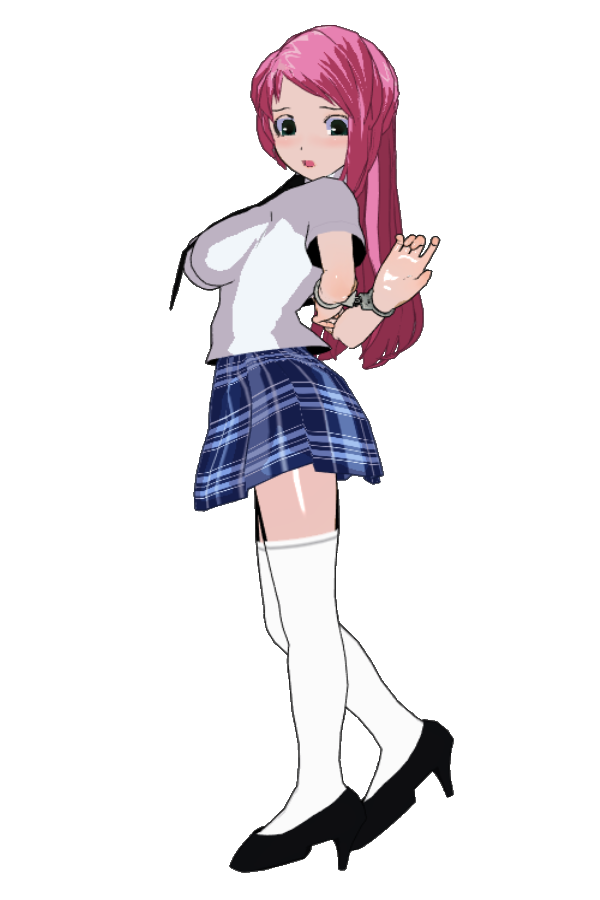
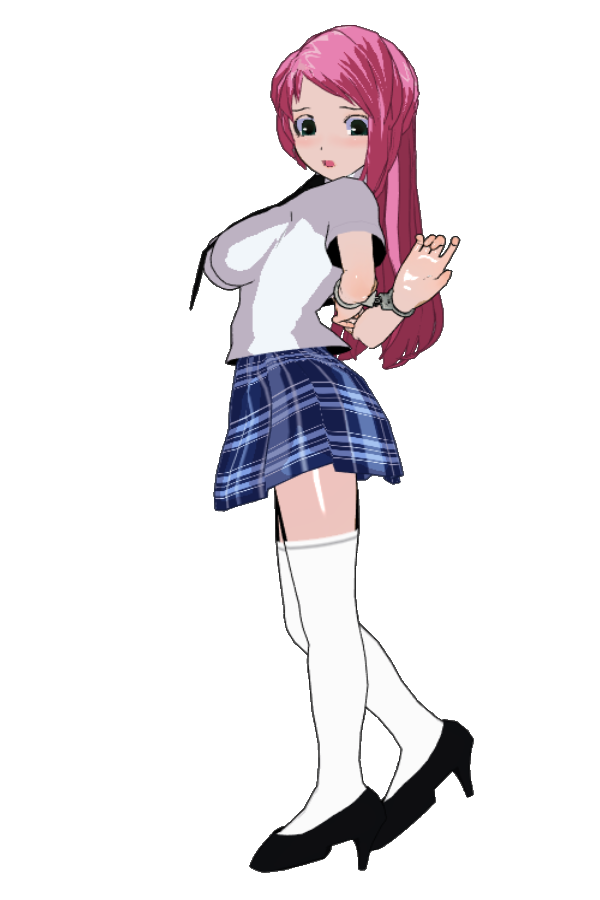
New Quiz System
New Quiz System

Changed region(s): [[0.27, 0.0, 0.81, 0.9956]]

diff --git a/C999_Common/Quiz/Quiz.js b/C999_Common/Quiz/Quiz.js
@@ -8,29 +8,55 @@ var QuizActorLeft = "";
 var QuizActorRight = "";
 var QuizActorLeader = "";
 var QuizImageActorLeft = "";
+var QuizImageActionActorLeft = "";
 var QuizImageActorRight = "";
+var QuizImageActionActorRight = "";
 var QuizImageActorLeader = "";
+var QuizImageActionActorLeader = "";
 var QuizBackupChapter = "";
 var QuizBackupScreen = "";
 var QuizDifficultyText = "";
 var QuizBackgroundImage = "";
-var QuizProgressLeft = -1;
-var QuizProgressRight = -1;
+var QuizProgressLeft = 0;
+var QuizProgressRight = 0;
 var QuizGoal = -1;
 var QuizText = null;
+var QuizQuestion = null;
+var QuizAnswer = null;
+var QuizFirstQuestionTime = 6000;
+var QuizBeforeAnswerTime = 3000;
+var QuizAnswerProgressTime = 3000;
+var QuizOtherQuestionTime = 4000;
+var QuizBetweenQuestionTimer = 0;
+var QuizShuffleDone = false;
+var QuizQuestionText = 0;
+var QuizQuestionAnswer1 = 1; // The first answer is always correct, the answer order will be shuffled
+var QuizQuestionAnswer2 = 2;
+var QuizQuestionAnswer3 = 3;
+var QuizQuestionAnswer4 = 4;
+var QuizAnswerBy = "";
+var QuizAnswerText = "";
 
 // Load the race animations and full sequence
-function QuizLoad(ActorLeft, ImageActorLeft, ActorRight, ImageActorRight, ActorLeader, ImageActorLeader, Difficulty, Goal, BackgroundImage, EndFunction) {
+function QuizLoad(ActorLeft, ImageActorLeft, ActorRight, ImageActorRight, ActorLeader, ImageActorLeader, Difficulty, ProgressTime, Goal, BackgroundImage, QuestionFile, EndFunction) {
 	
 	// Creates a brand new quiz
 	LeaveIcon = "";
-	QuizTimer = 0;
+	QuizTimer = QuizFirstQuestionTime * -1;
 	QuizProgressLeft = 0;
 	QuizProgressRight = 0;
 	QuizGoal = Goal;
 	QuizEnded = false;	
 	QuizPerfect = true;
+	QuizAnswerBy = "";
+	QuizAnswerText = "";
+	QuizBetweenQuestionTimer = 0;
+	
+	// Loads the quiz texts and questions
 	if (QuizText == null) ReadCSV("QuizText", "C999_Common/Quiz/Text_" + CurrentLanguageTag + ".csv");
+	QuizQuestion = null;
+	QuizShuffleDone = false;
+	ReadCSV("QuizQuestion", "C999_Common/Quiz/Questions/" + QuestionFile + "_" + CurrentLanguageTag + ".csv");
 
 	// Loads the parameters
 	QuizActorLeft = ActorLeft;
@@ -42,6 +68,10 @@ function QuizLoad(ActorLeft, ImageActorLeft, ActorRight, ImageActorRight, ActorL
 	QuizDifficultyText = Difficulty;
 	QuizEndFunction = EndFunction;
 	QuizBackgroundImage = BackgroundImage;
+	QuizAnswerProgressTime = ProgressTime;
+	QuizImageActionActorRight = "";
+	QuizImageActionActorLeft = "";
+	QuizImageActionActorLeader = "";
 	
 	// Keep a backup of the current chapter and screen
 	QuizBackupChapter = CurrentChapter;
@@ -51,17 +81,166 @@ function QuizLoad(ActorLeft, ImageActorLeft, ActorRight, ImageActorRight, ActorL
 
 }
 
+// Prepare the quiz answers if we need to
+function QuizPrepareAnswers() {
+	if ((QuizAnswer == null) && (QuizQuestion != null)) {
+		QuizAnswer = [QuizQuestion[QuizProgressLeft + QuizProgressRight][QuizQuestionAnswer1], QuizQuestion[QuizProgressLeft + QuizProgressRight][QuizQuestionAnswer2], QuizQuestion[QuizProgressLeft + QuizProgressRight][QuizQuestionAnswer3], QuizQuestion[QuizProgressLeft + QuizProgressRight][QuizQuestionAnswer4]]; 
+		QuizAnswer = ArrayShuffle(QuizAnswer);
+	}
+}
+
+// Renders the little timer before the quiz and shows the opponent name and strength
+function QuizRenderBeforeQuestion() {
+	if ((QuizProgressLeft == 0) && (QuizProgressRight == 0)) {
+		DrawText(GetCSVText(QuizText, "Opponent") + " " + QuizActorRight, 600, 50, "white");
+		DrawText(GetCSVText(QuizText, "Difficulty") + " " + GetCSVText(QuizText, QuizDifficultyText), 600, 90, "white");
+		DrawText(GetCSVText(QuizText, "Explanation"), 600, 150, "white");
+		DrawText(GetCSVText(QuizText, "FirstQuestionIn") + " " + (Math.floor(QuizTimer * -1 / 1000)).toString(), 600, 210, "white");
+	} else {
+		DrawText(Common_PlayerName + ": " + QuizProgressLeft.toString(), 600, 60, "white");
+		DrawText(QuizActorRight + ": " + QuizProgressRight.toString(), 600, 130, "white");
+		DrawText(GetCSVText(QuizText, "NextQuestionIn") + " " + (Math.floor(QuizTimer * -1 / 1000)).toString(), 600, 200, "white");
+	}
+}
+
+// Once the question is asked, we draw all the speech bubbles to answer it
+function QuizRenderAfterQuestion() {
+	
+	// Draw the question from the quiz leader
+	DrawImage("C999_Common/Quiz/Images/QuestionBubble.png", 425, 100);
+	DrawText(QuizQuestion[QuizProgressLeft + QuizProgressRight][QuizQuestionText], 600, 180, "black");
+
+	// Draw the think bubble which which will give a better clue with each second
+	DrawImage("C999_Common/Quiz/Images/ThinkBubble.png", 0, 0);
+	if (QuizTimer <= QuizBeforeAnswerTime) DrawText("...", 150, 75, "black");
+	else {
+		var AnswerProg = Math.floor((QuizTimer - QuizBeforeAnswerTime) / QuizAnswerProgressTime);
+		if (QuizAnswerProgressTime > 0) DrawText(QuizQuestion[QuizProgressLeft + QuizProgressRight][QuizQuestionAnswer1].substring(0, AnswerProg), 150, 75, "black");
+		else DrawText("???", 150, 75, "black");
+	}
+
+	// Draw all four answers (or only one if the player chose to answer)
+	for(var a = 0; a <= 3; a++)	{
+		var col = "#BB0000";
+		var txt = "...";
+		var img = "PossibleAnswerBubble";
+		if ((MouseX >= 0) && (MouseX <= 250) && (MouseY >= 200 + (a * 100)) && (MouseY <= 250 + (a * 100))) { col = "#00BB00"; img = "AnswerBubble"; }
+		if (QuizTimer >= QuizBeforeAnswerTime) txt = QuizAnswer[a];
+		DrawImage("C999_Common/Quiz/Images/" + img + ".png", 0, 200 + (a * 100));
+		DrawText(txt, 122, 225 + (a * 100), col);
+	}
+
+}
+
+// Once the answer is given, the leader confirms and one of the participant gets hit
+function QuizRenderAfterAnswer() {
+
+	// On the first phase, an opponent answers and the leader confirms
+	if (QuizTimer + (QuizOtherQuestionTime / 2) < QuizBetweenQuestionTimer) {
+
+		// Draw the answer bubble from the left side
+		if ((QuizAnswerText != "") && (QuizAnswerBy == "Left")) {
+			DrawImage("C999_Common/Quiz/Images/AnswerBubble.png", 0, 75);
+			DrawText(QuizAnswerText, 122, 100, "black");
+		}
+		
+		// The leader yells if the answer is correct or not but doesn't give the correct answer
+		var txt = GetCSVText(QuizText, "GoodAnswer");
+		if (QuizAnswerText != QuizQuestion[QuizProgressLeft + QuizProgressRight - 1][QuizQuestionAnswer1]) txt = GetCSVText(QuizText, "BadAnswer");
+		DrawImage("C999_Common/Quiz/Images/YellBubble.png", 500, 200);
+		DrawText(txt, 600, 238, "black");
+
+	} else {
+
+		// Depending on who gave the correct answer, someone gets hit
+		if ((QuizAnswerText != QuizQuestion[QuizProgressLeft + QuizProgressRight - 1][QuizQuestionAnswer1]) && (QuizAnswerBy == "Left")) QuizImageActionActorLeft = "_Hit";
+		if ((QuizAnswerText != QuizQuestion[QuizProgressLeft + QuizProgressRight - 1][QuizQuestionAnswer1]) && (QuizAnswerBy == "Right")) QuizImageActionActorRight = "_Hit";
+		if ((QuizAnswerText == QuizQuestion[QuizProgressLeft + QuizProgressRight - 1][QuizQuestionAnswer1]) && (QuizAnswerBy == "Left")) QuizImageActionActorRight = "_Hit";
+		if ((QuizAnswerText == QuizQuestion[QuizProgressLeft + QuizProgressRight - 1][QuizQuestionAnswer1]) && (QuizAnswerBy == "Right")) QuizImageActionActorLeft = "_Hit";
+		if (QuizImageActionActorLeft == "_Hit") QuizImageActionActorLeader = "_HitLeft";
+		if (QuizImageActionActorRight == "_Hit") QuizImageActionActorLeader = "_HitRight";
+
+	}
+
+}
+
+// Renders the end of the quiz
+function QuizRenderEnd() {
+	DrawText(Common_PlayerName + ": " + QuizProgressLeft.toString(), 600, 60, "white");
+	DrawText(QuizActorRight + ": " + QuizProgressRight.toString(), 600, 120, "white");
+	if (QuizProgressLeft == QuizGoal) DrawText(GetCSVText(QuizText, "Perfect"), 600, 200, "white");
+	else if (QuizProgressLeft >= QuizProgressRight) DrawText(GetCSVText(QuizText, "Victory"), 600, 200, "white");
+	else DrawText(GetCSVText(QuizText, "Defeat"), 600, 200, "white");	
+}
+
+// Prepare the next quiz question if needed
+function QuizNextQuestion() {
+	if ((QuizTimer >= QuizBetweenQuestionTimer) && (QuizBetweenQuestionTimer > 0)) {
+		if (QuizProgressLeft + QuizProgressRight >= QuizGoal) QuizEnded = true;
+		QuizTimer = QuizOtherQuestionTime * -1;
+		QuizAnswerText = "";
+		QuizAnswerBy = "";
+		QuizBetweenQuestionTimer = 0;
+		QuizAnswer = null;
+		QuizImageActionActorLeader = "";
+	}	
+}
+
+// Paints the background and the actors, also resets the opponents actions if needed
+function QuizRender() {
+	if ((QuizTimer >= (QuizOtherQuestionTime * -1 / 2)) && (QuizTimer <= 0) && (QuizImageActionActorLeft != "")) QuizImageActionActorLeft = "";
+	if ((QuizTimer >= (QuizOtherQuestionTime * -1 / 2)) && (QuizTimer <= 0) && (QuizImageActionActorRight != "")) QuizImageActionActorRight = "";
+	DrawImage("C999_Common/Quiz/Backgrounds/" + QuizBackgroundImage + ".jpg", 0, 0);
+	DrawImageZoom("C999_Common/Quiz/Actors/" + QuizActorLeft + "/" + QuizImageActorLeft + QuizImageActionActorLeft + ".png", 0, 0, 600, 900, 150, 0, 600 * 0.675, 900 * 0.675);
+	DrawImageZoomMirror("C999_Common/Quiz/Actors/" + QuizActorRight + "/" + QuizImageActorRight + QuizImageActionActorRight + ".png", 0, 0, 600, 900, 650, 0, 600 * 0.675, 900 * 0.675);
+	DrawImage("C999_Common/Quiz/Actors/" + QuizActorLeader + "/" + QuizImageActorLeader + "_Leader" + QuizImageActionActorLeader + ".png", 400, 200);	
+}
+
 // Render the quiz scene
 function C999_Common_Quiz_Run() {
 
-	// Paints the background and actors
-	DrawImage("C999_Common/Quiz/Backgrounds/" + QuizBackgroundImage + ".jpg", 0, 0);
-	DrawImageZoom("C999_Common/Quiz/Actors/" + QuizActorLeft + "/" + QuizImageActorLeft + ".png", 0, 0, 600, 900, 150, 0, 600 * 0.675, 900 * 0.675);
-	DrawImageZoomMirror("C999_Common/Quiz/Actors/" + QuizActorRight + "/" + QuizImageActorRight + ".png", 0, 0, 600, 900, 650, 0, 600 * 0.675, 900 * 0.675);
+	// Shuffles the questions if needed
+	if (!QuizShuffleDone && (QuizQuestion != null)) {
+		QuizQuestion = ArrayShuffle(QuizQuestion);
+		QuizShuffleDone = true;
+	}
+
+	// Prepare the questions and answers
+	QuizNextQuestion();
+	QuizPrepareAnswers();
+	
+	// Increments the quiz timer and paints the background
+	if (!QuizEnded) QuizTimer = QuizTimer + RunInterval;
+	QuizRender();
+
+	// Renders the correct scene, depending on the progress
+	if (QuizEnded) QuizRenderEnd();
+	else if (QuizTimer < 0) QuizRenderBeforeQuestion();
+	else if (QuizBetweenQuestionTimer == 0) QuizRenderAfterQuestion();
+	else QuizRenderAfterAnswer();
 
 }
 
 // When a click is done while in the quiz
 function C999_Common_Quiz_Click() {
+
+	// When the quiz is over, one last click will exit from the scene 
+	if ((QuizEnded) && (MouseX >= 0) && (MouseX <= 1200) && (MouseY >= 0) && (MouseY <= 600)) {
+		CurrentChapter = QuizBackupChapter;
+		CurrentScreen = QuizBackupScreen;
+		DynamicFunction(QuizEndFunction + "(" + (QuizProgressLeft >= QuizProgressRight).toString() + ")");
+		return;
+	}
+
+	// If an answer can be given by the player (the speech bubbles must be visible)
+	if ((QuizTimer >= QuizBeforeAnswerTime) && (QuizBetweenQuestionTimer == 0))
+		for(var a = 0; a <= 3; a++)
+			if ((MouseX >= 0) && (MouseX <= 300) && (MouseY >= 200 + (a * 100)) && (MouseY <= 250 + (a * 100))) {
+				QuizAnswerText = QuizAnswer[a];
+				QuizAnswerBy = "Left";
+				QuizBetweenQuestionTimer = QuizTimer + QuizOtherQuestionTime;
+				if (QuizAnswerText == QuizQuestion[QuizProgressLeft + QuizProgressRight][QuizQuestionAnswer1]) QuizProgressLeft++;
+				else QuizProgressRight++;
+			}
 
 }

diff --git a/C011_LiteratureClass/Mildred/Script.js b/C011_LiteratureClass/Mildred/Script.js
@@ -2,6 +2,10 @@ var C011_LiteratureClass_Mildred_CurrentStage = 0;
 var C011_LiteratureClass_Mildred_Angry = false;
 var C011_LiteratureClass_Mildred_GoodStudentCount = 0;
 var C011_LiteratureClass_Mildred_KnowCheat = false;
+var C011_LiteratureClass_Mildred_QuizPlayerStatus = "Clothed";
+var C011_LiteratureClass_Mildred_QuizSidneyStatus = "Clothed";
+var C011_LiteratureClass_Mildred_QuizMildredStatus = "Clothed";
+var C011_LiteratureClass_Mildred_TestChapter = 1;
 
 // Chapter 11 - Mildred Load
 function C011_LiteratureClass_Mildred_Load() {
@@ -47,14 +51,101 @@ function C011_LiteratureClass_Mildred_CheckForCuffs() {
 // Chapter 11 - Mildred cuffs the player
 function C011_LiteratureClass_Mildred_CuffPlayer() {
 	PlayerLockInventory("Cuffs");
+	C011_LiteratureClass_Mildred_QuizPlayerStatus = "Clothed_Cuffs";
 	CurrentTime = CurrentTime + 50000;
+}
+
+// Chapter 11 - Starts the quiz for a specific chapter
+function C011_LiteratureClass_Mildred_StartQuiz(QuizChapter) {
+
+	// If the player has read the chapter, the answer generates at 3 seconds per letter, if the book was read twice, it's 2 seconds
+	var AnswerGenSpeed = 0;
+	if (GameLogQuery("C009_Library", "", "ReadChapter" + QuizChapter)) AnswerGenSpeed = 3000;
+	if (GameLogQuery("C009_Library", "", "ReadTwice")) AnswerGenSpeed = 2000;
+
+	// Loads the quiz
+	QuizLoad("Player", C011_LiteratureClass_Mildred_QuizPlayerStatus, "Sidney", C011_LiteratureClass_Mildred_QuizSidneyStatus, "Mildred", "Clothed", "Easy", AnswerGenSpeed, 5, "Classroom", "MonteCristoChapter" + QuizChapter, "C011_LiteratureClass_Mildred_EndQuiz");
+
+}
+
+// Chapter 11 - When the quiz ends
+function C011_LiteratureClass_Mildred_EndQuiz(Victory) {
+
+	// The next chapter to test
+	C011_LiteratureClass_Mildred_TestChapter++;
+	
+	// On a victory
+	if (Victory) {
+
+		// If Sidney was already hit, she gets hit again
+		if (C011_LiteratureClass_Mildred_QuizSidneyStatus == "RedButt_Cuffs") { 
+			OverridenIntroText = GetText("TestSidneyCropAgain");
+			OverridenIntroImage = "TestSidneyCrop.jpg";
+		}
+
+		// If Sidney was stripped, she gets hit
+		if (C011_LiteratureClass_Mildred_QuizSidneyStatus == "NoSkirt_Cuffs") { 
+			C011_LiteratureClass_Mildred_QuizSidneyStatus = "RedButt_Cuffs";
+			OverridenIntroText = GetText("TestSidneyCrop");
+			OverridenIntroImage = "TestSidneyCrop.jpg";
+		}
+
+		// If Sidney was cuffed, she gets stripped of her skirt
+		if (C011_LiteratureClass_Mildred_QuizSidneyStatus == "Clothed_Cuffs") { 
+			C011_LiteratureClass_Mildred_QuizSidneyStatus = "NoSkirt_Cuffs";
+			OverridenIntroText = GetText("TestSidneyNoSkirt");
+			OverridenIntroImage = "TestSidneyNoSkirt.jpg";
+		}
+	
+		// If Sidney wasn't cuffed, she gets cuffed
+		if (C011_LiteratureClass_Mildred_QuizSidneyStatus == "Clothed") { 
+			CurrentActor = "Sidney";
+			ActorAddInventory("Cuffs");
+			CurrentActor = "Mildred";
+			C011_LiteratureClass_Mildred_QuizSidneyStatus = "Clothed_Cuffs";
+			OverridenIntroText = GetText("TestSidneyCuffs");
+			OverridenIntroImage = "TestSidneyCuffs.jpg";
+		}
+		
+	} else {
+
+		// If the player was already hit, she gets hit again
+		if (C011_LiteratureClass_Mildred_QuizPlayerStatus == "RedButt_Cuffs") { 
+			OverridenIntroText = GetText("TestPlayerCropAgain");
+			OverridenIntroImage = "TestPlayerCrop.jpg";
+		}
+
+		// If the player was stripped, she gets hit
+		if (C011_LiteratureClass_Mildred_QuizPlayerStatus == "NoSkirt_Cuffs") { 
+			C011_LiteratureClass_Mildred_QuizPlayerStatus = "RedButt_Cuffs";
+			OverridenIntroText = GetText("TestPlayerCrop");
+			OverridenIntroImage = "TestPlayerCrop.jpg";
+		}
+
+		// If the player was cuffed, she gets stripped of her skirt
+		if (C011_LiteratureClass_Mildred_QuizPlayerStatus == "Clothed_Cuffs") { 
+			C011_LiteratureClass_Mildred_QuizPlayerStatus = "NoSkirt_Cuffs";
+			OverridenIntroText = GetText("TestPlayerNoSkirt");
+			OverridenIntroImage = "TestPlayerNoSkirt.jpg";
+		}
+	
+		// If the player wasn't cuffed, she gets cuffed
+		if (C011_LiteratureClass_Mildred_QuizPlayerStatus == "Clothed") { 
+			PlayerLockInventory("Cuffs");
+			C011_LiteratureClass_Mildred_QuizPlayerStatus = "Clothed_Cuffs";
+			OverridenIntroText = GetText("TestPlayerCuffs");
+			OverridenIntroImage = "TestPlayerCuffs.jpg";
+		}
+	
+	}
+
 }
 
 // Chapter 11 - Mildred starts the test for the player and Sidney
 function C011_LiteratureClass_Mildred_StartTest() {
 	if (C011_LiteratureClass_Mildred_GoodStudentCount >= 2) ActorChangeAttitude(1, 0);
 	CurrentTime = CurrentTime + 50000;
-	QuizLoad("Player", PlayerHasLockedInventory("Cuffs") ? "Clothed_Cuffs" : "Clothed", "Sidney", ActorSpecificHasInventory("Sidney", "Cuffs") ? "Clothed_Cuffs" : "Clothed", "Mildred", "Leader", "Normal", 10, "Classroom", "C011_LiteratureClass_Mildred_QuizEnd");
+	C011_LiteratureClass_Mildred_StartQuiz(C011_LiteratureClass_Mildred_TestChapter.toString());
 }
 
 // Chapter 11 - Mildred can switch focus to Sidney for a short while
@@ -64,6 +155,7 @@ function C011_LiteratureClass_Mildred_SwitchSidney() {
 		OverridenIntroText = GetText("SidneyStares");
 		ActorLoad("Sidney", "");
 		ActorAddInventory("Cuffs");
+		C011_LiteratureClass_Mildred_QuizSidneyStatus = "Clothed_Cuffs";
 	} else {
 		CurrentActor = "Sidney";
 		ActorAddInventory("Cuffs");

diff --git a/Common.js b/Common.js
@@ -145,6 +145,18 @@ function ReadCSV(Array, FileName) {
     Reader.send(null);
 }
 
+// Shuffles all array elements at random
+function ArrayShuffle(a) {
+    var j, x, i;
+    for (i = a.length - 1; i > 0; i--) {
+        j = Math.floor(Math.random() * (i + 1));
+        x = a[i];
+        a[i] = a[j];
+        a[j] = x;
+    }
+    return a;
+}
+
 // Returns a working language if translation isn't fully ready
 function GetWorkingLanguage() {
 	if ((CurrentLanguageTag == "FR") && ((CurrentChapter == "C000_Intro") || (CurrentChapter == "C001_BeforeClass") || (CurrentChapter == "C002_FirstClass") || (CurrentChapter == "C003_MorningDetention") || (CurrentChapter == "C004_ArtClass") || (CurrentChapter == "C005_GymClass") || (CurrentChapter == "C006_Isolation") || (CurrentChapter == "C007_LunchBreak") || (CurrentChapter == "C999_Common"))) return "FR";
